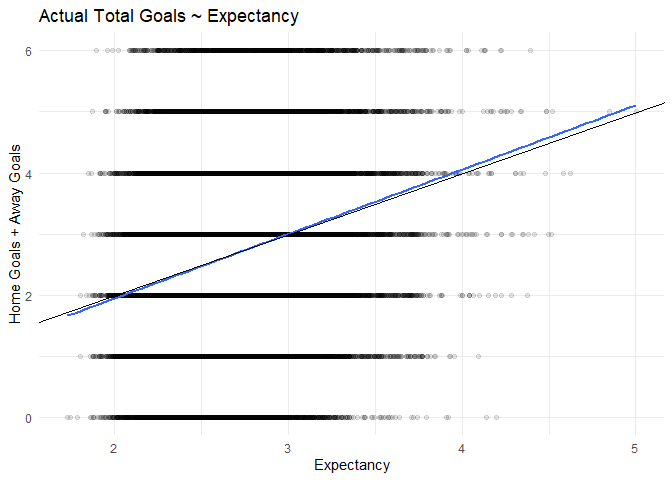
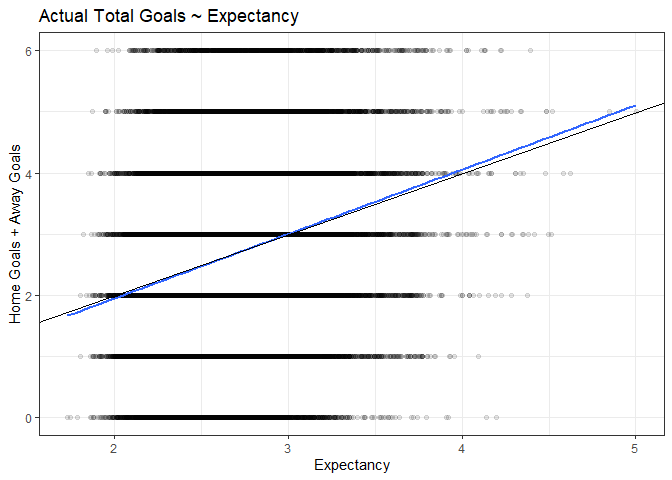
rho param in gg

diff --git a/implied-goals.md b/implied-goals.md
@@ -1,4 +1,4 @@
-Expected Goals
+Implied Goals
 ================
 Thanos Livanis
 22/11/2023
@@ -15,6 +15,12 @@ Data from
 [football-data.co.uk](https://www.football-data.co.uk/data.php)  
 Removing overround using [implied
 package](https://opisthokonta.net/?p=1797)  
+
+- [Data](#data)
+- [Distributions](#distributions)
+  - [Total Goals](#total-goals)
+  - [Goal Difference](#goal-difference)
+- [Expectancy and Supremacy](#expectancy-and-supremacy)
 
 ## Data
 
@@ -50,12 +56,13 @@ football_odds <- football_odds %>%
          GG = ifelse(FTHG >= 1 & FTAG >= 1, T, F)) 
 ```
 
-## Total Goals distribution
+## Distributions
 
-Poisson and Negative Binomial fitting
+### Total Goals
+
+Fitted Poisson & Negative binomial
 
 ``` r
-# Fitted Poisson & Negative binomial distribution
 fit <- map(c("pois", "nbinom"), fitdist, data = football_odds$FTG, method = "mle")
 
 x_values <- 0:max(football_odds$FTG)
@@ -80,9 +87,9 @@ ggplot(football_odds, aes(x = FTG)) +
 
 <img src="implied-goals_files/figure-gfm/total_distr-1.png" style="display: block; margin: auto;" />
 
-## Goal difference distribution
+### Goal difference
 
-Skellam (difference of two independent Poisson) & Dixon-Coles
+Skellam (difference of two independent Poisson) & Dixon-Coles adjustment
 
 ``` r
 # Dixon-Coles adjusted density function 
@@ -137,7 +144,7 @@ ggplot(football_odds, aes(x = FTGD)) +
 
 <img src="implied-goals_files/figure-gfm/diff_distr-1.png" style="display: block; margin: auto;" />
 
-## Iterate to find goal expectancy & supremacy
+## Expectancy and Supremacy
 
 ``` r
 # Given Under probability find the mean of the Poisson distribution
@@ -156,7 +163,7 @@ implied_expectancy <- function(under_prop, under_line = 2.5) {
 # Given goal expectancy and probability of Home team to win get supremacy
 # win probability of HT is the CDF of the adjusted Skellam 
 # @rho: default value 0 -> standard Skellam 
-implied_supremacy <- function(home_prop, exp, rho = 0) {
+implied_supremacy <- function(home_prop, exp, rho = -0.1) {
   
   dc_model <- function(sup){
     
@@ -174,13 +181,13 @@ implied_supremacy <- function(home_prop, exp, rho = 0) {
   return (sup)
 }
 
-gg_prop <- function(home_exp, away_exp) {
+gg_prop <- function(home_exp, away_exp, rho = -0.1) {
   
   score <- matrix(nrow = 8, ncol = 8, dimnames = list(as.character(0:7), as.character(0:7)))
   
   for (h in 1:nrow(score)) {
     for (a in 1:ncol(score)) {
-      score[h, a] <- ddc(h-1, a-1, home_exp, away_exp, -0.1)
+      score[h, a] <- ddc(h-1, a-1, home_exp, away_exp, rho)
     }
   }
   
@@ -222,7 +229,7 @@ expected_goals <- function(data, bookmaker, rho, method = "basic") {
            Supremacy = map2_dbl(PH, Expectancy, implied_supremacy, rho = rho),
            Home_exp = (Expectancy + Supremacy)/2,
            Away_exp = (Expectancy - Supremacy)/2, 
-           PGG = map2_dbl(Home_exp, Away_exp, gg_prop),
+           PGG = map2_dbl(Home_exp, Away_exp, gg_prop, rho = rho),
            rho = as.character(rho), 
            method = method) %>%
     drop_na()
@@ -238,16 +245,15 @@ The **“Basic”** method from Implied package is not a good way to remove
 bookmaker’s margin, but in this case, if we employ a simple
 Dixon-Coles\|Skellam model to estimate win probability of home team it
 seems to lead to better results, the other methods do not succeed. 
-There isn’t much difference between different rho values, standard
-Skellam (rho = 0) is fine.  
+Rho’s values is -0.1 by calibrating the goal-goal probability.
 
 ``` r
 ggplot(filter(goal_expectancy, rho == "0"), aes(x = Expectancy, y = FTHG + FTAG)) +
   geom_point(alpha = 0.1) + geom_smooth(method = "lm", se = F) +
   geom_abline(slope = 1, intercept = 0) +
-  labs(title = "Actual Total Goals ~ Expectancy", y = "Home Goals + Away Goals") +
   coord_cartesian(ylim = c(0, 6)) +
-  theme_minimal() 
+  theme_bw() +
+  labs(title = "Actual Total Goals ~ Expectancy", y = "Home Goals + Away Goals") 
 ```
 
 <img src="implied-goals_files/figure-gfm/plots-1.png" style="display: block; margin: auto;" />
@@ -256,9 +262,9 @@ ggplot(filter(goal_expectancy, rho == "0"), aes(x = Expectancy, y = FTHG + FTAG)
 ggplot(goal_expectancy, aes(x = Supremacy, y = FTGD, color = rho)) +
   geom_point(alpha = 0.1) + geom_smooth(method = "lm", se = F) +
   geom_abline(slope = 1, intercept = 0) +
-  labs(title = "Actual Goal Difference ~ Supremacy", y = "Home Goals - Away Goals") +
   coord_cartesian(ylim = c(-5, 5)) +
-  theme_minimal() 
+  theme_bw() +
+  labs(title = "Actual Goal Difference ~ Supremacy", y = "Home Goals - Away Goals") 
 ```
 
 <img src="implied-goals_files/figure-gfm/plots-2.png" style="display: block; margin: auto;" />
@@ -288,7 +294,7 @@ goal_expectancy %>%
 <img src="implied-goals_files/figure-gfm/gg_prop-1.png" style="display: block; margin: auto;" />
 
 ``` r
-ggplot(filter(goal_expectancy, rho == "0"), aes(x = PH, y = Supremacy, color = PU)) +
+ggplot(filter(goal_expectancy, rho == "-0.1"), aes(x = PH, y = Supremacy, color = PU)) +
   geom_point(alpha = 0.1) + geom_smooth(method = "lm", formula = y ~ poly(x,8), se = F) +
   theme_bw() +
   labs(title = "Supremacy ~ f(Home Prop, Under Prop)",
